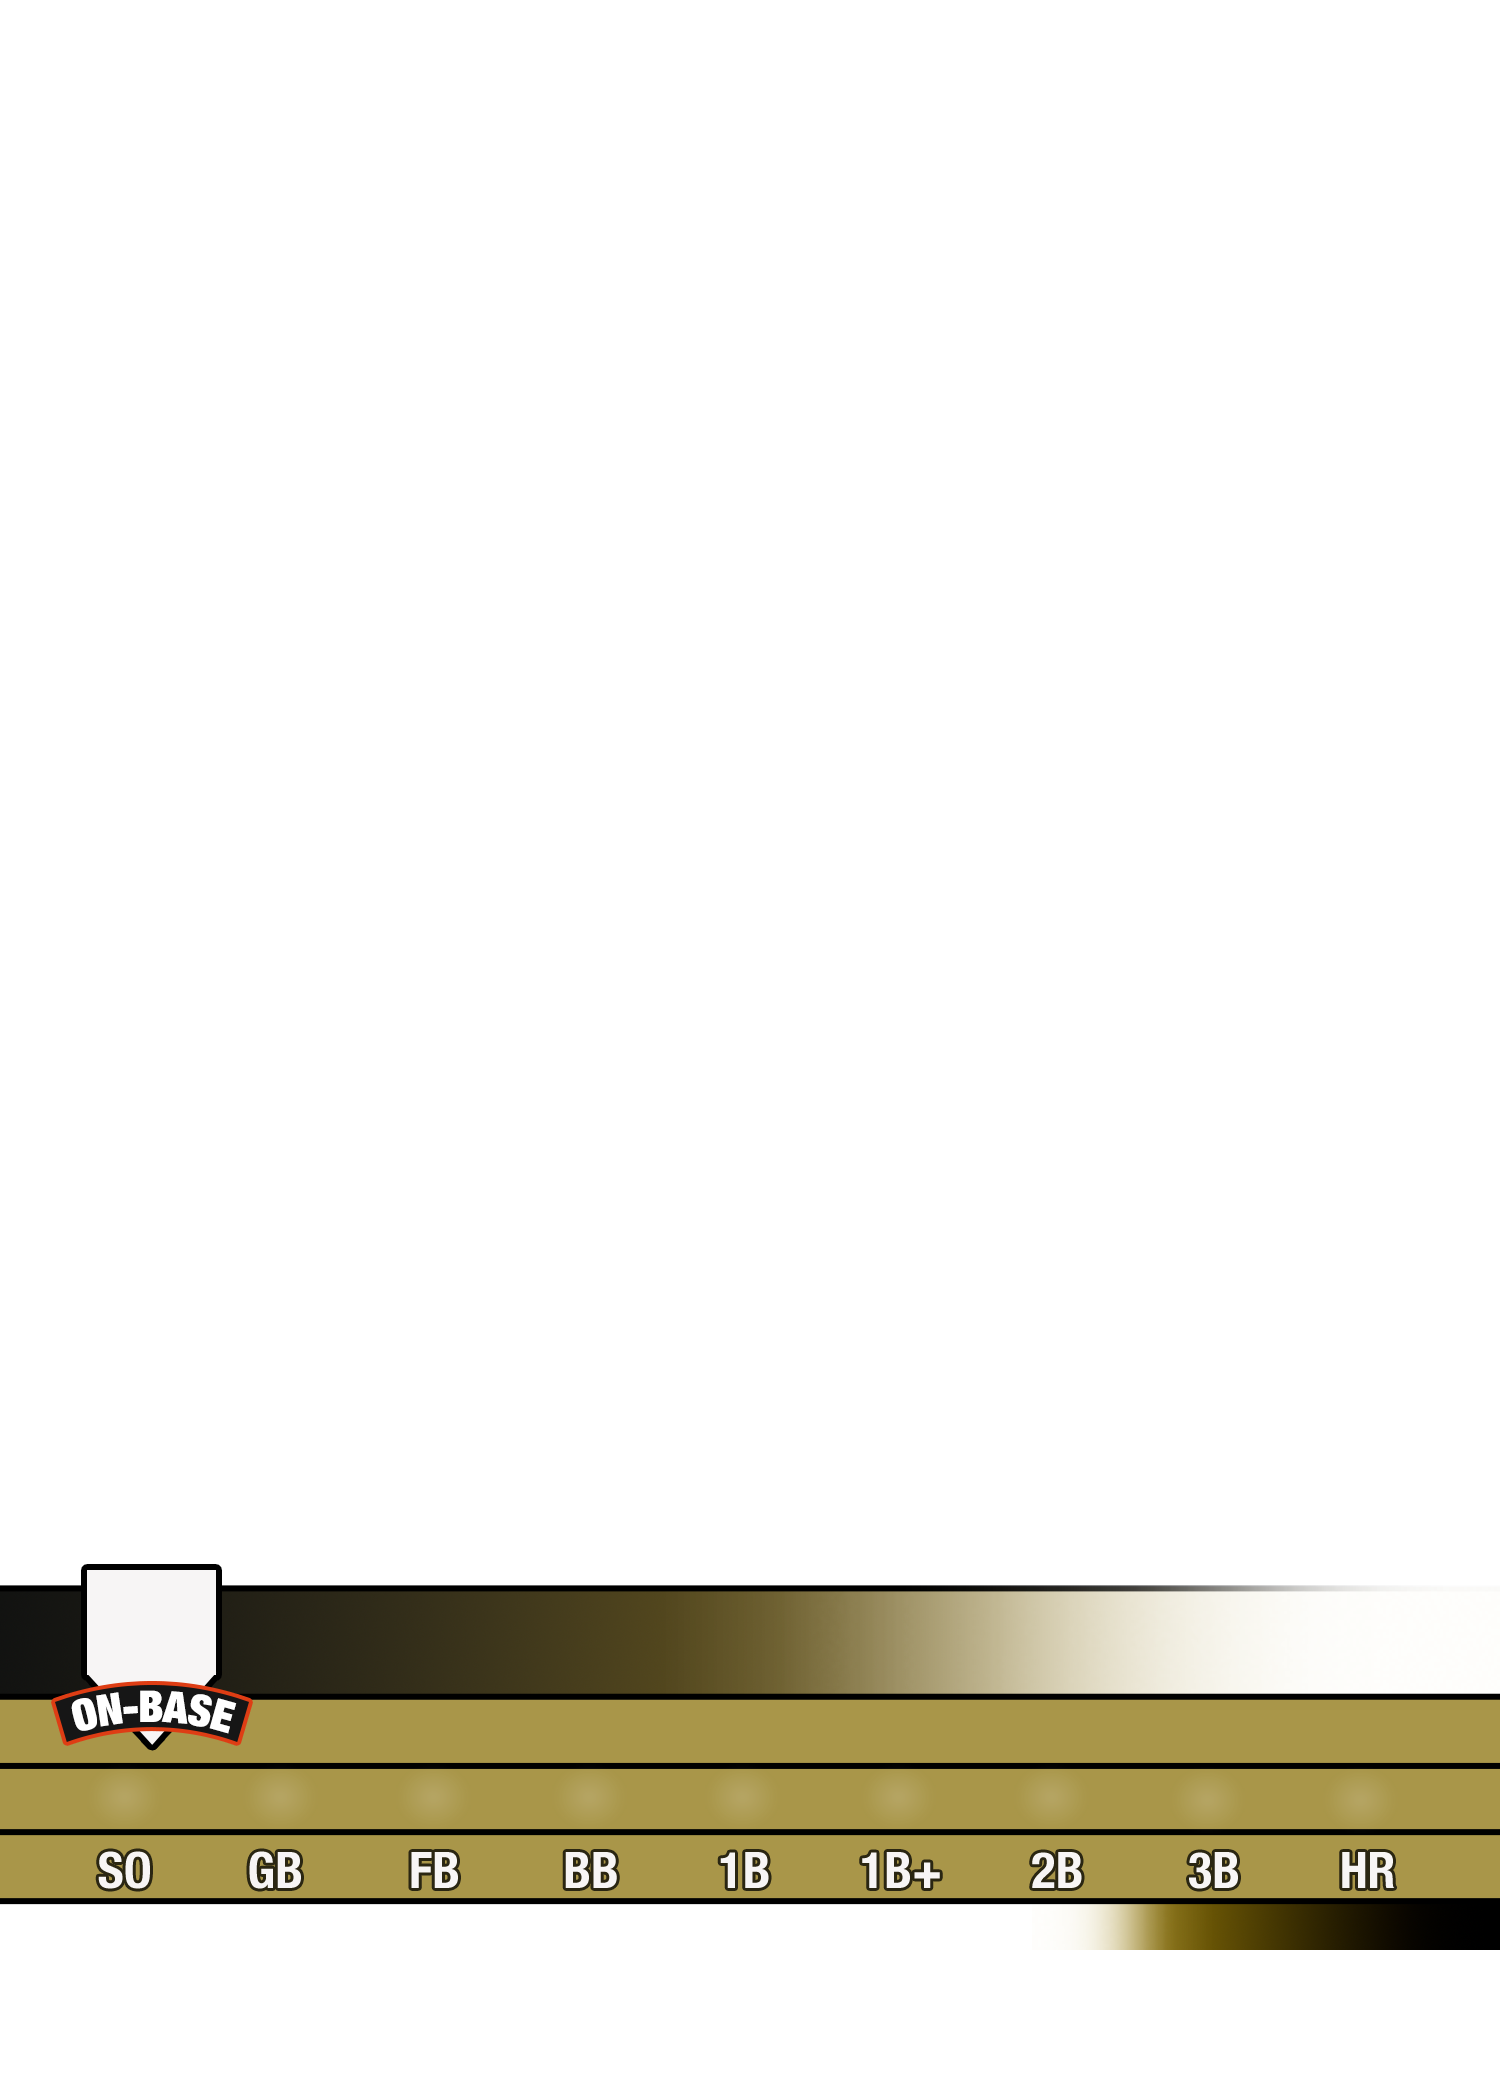
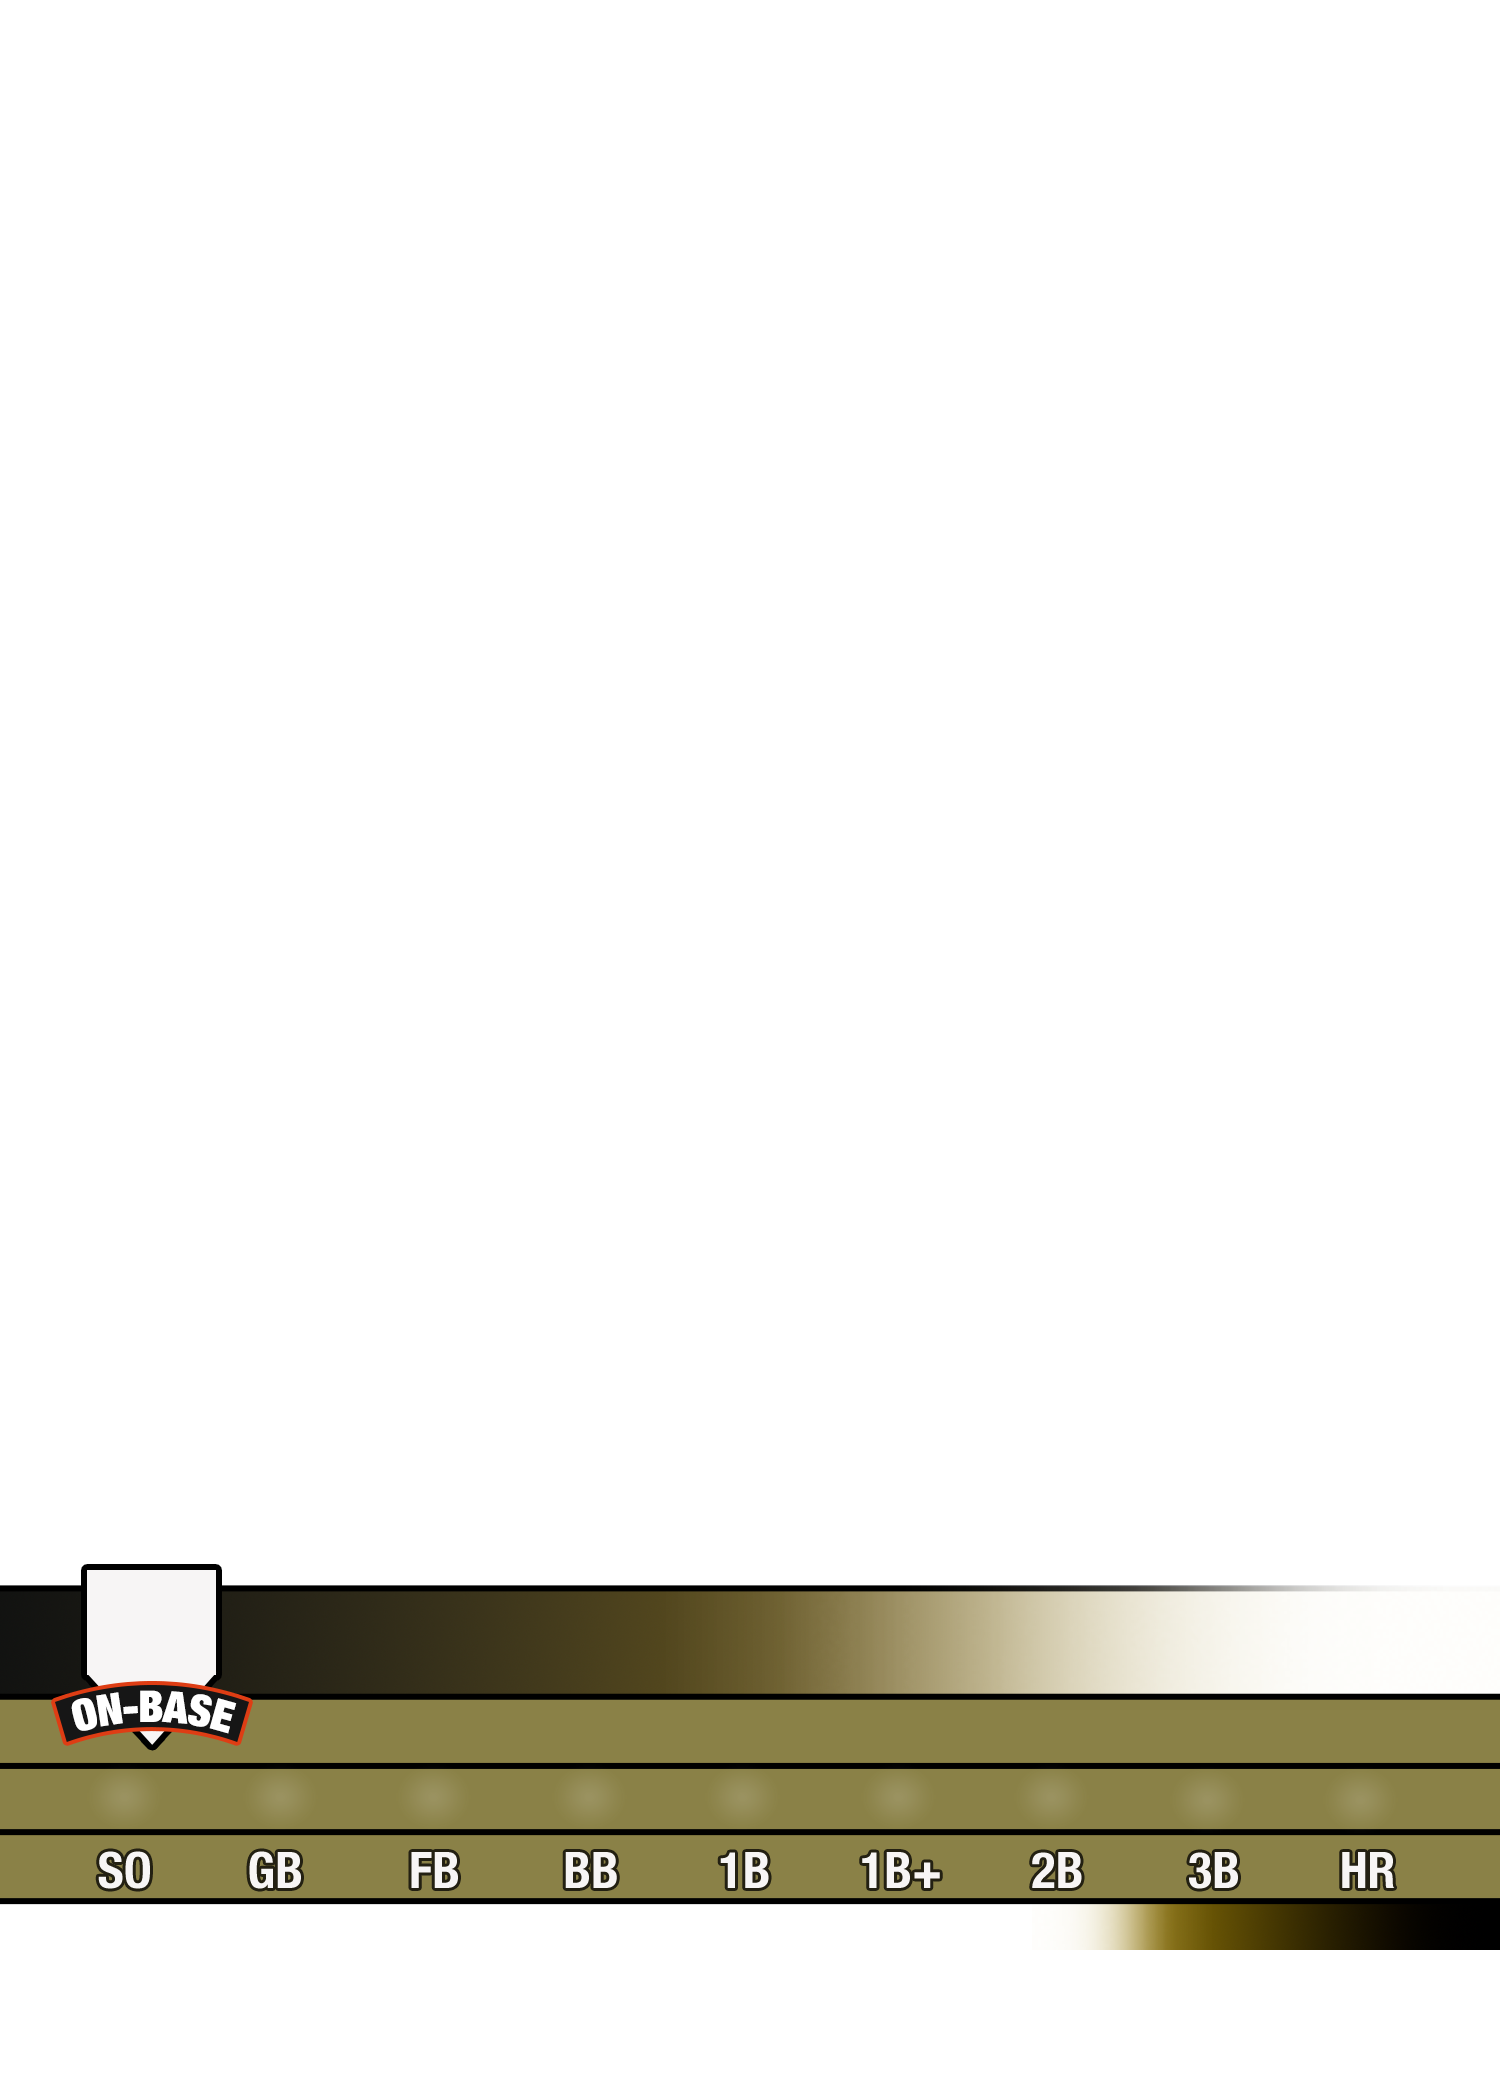
Add gold frame customizations for each set

Changed region(s): [[0.0, 0.8048, 1.0, 0.9286]]

diff --git a/mlb_showdown_bot/showdown_player_card.py b/mlb_showdown_bot/showdown_player_card.py
@@ -24,11 +24,11 @@ try:
     from .classes.team import Team
     from .classes.icon import Icon
     from .classes.accolade import Accolade
-    from .classes.sets import Set, Era, SpeedMetric, PlayerType, PlayerSubType, Stat, PointsMetric, Position, PlayerImageComponent, TemplateImageComponent, ValueRange, Chart
+    from .classes.sets import Set, Era, SpeedMetric, PlayerType, PlayerSubType, Stat, PointsMetric, Position, PlayerImageComponent, TemplateImageComponent, ValueRange, Chart, ImageParallel
     from .classes.metrics import DefenseMetric
     from .classes.nationality import Nationality
     from .classes.chart import ChartCategory
-    from .classes.images import ImageParallel, ImageSource, ImageSourceType, SpecialEdition, Edition, Expansion, ShowdownImage
+    from .classes.images import ImageSource, ImageSourceType, SpecialEdition, Edition, Expansion, ShowdownImage
     from .classes.points import Points
     from .classes.metadata import Speed, SpeedLetter, Hand
     from .classes import colors
@@ -39,12 +39,12 @@ except ImportError:
     from classes.team import Team
     from classes.icon import Icon
     from classes.accolade import Accolade
-    from classes.sets import Set, Era, SpeedMetric, PlayerType, PlayerSubType, Stat, PointsMetric, Position, PlayerImageComponent, TemplateImageComponent, ValueRange, Chart
+    from classes.sets import Set, Era, SpeedMetric, PlayerType, PlayerSubType, Stat, PointsMetric, Position, PlayerImageComponent, TemplateImageComponent, ValueRange, Chart, ImageParallel
     from classes.player_position import PlayerSubType
     from classes.metrics import DefenseMetric
     from classes.nationality import Nationality
     from classes.chart import ChartCategory
-    from classes.images import ImageParallel, ImageSource, ImageSourceType, SpecialEdition, Edition, Expansion, ShowdownImage
+    from classes.images import ImageSource, ImageSourceType, SpecialEdition, Edition, Expansion, ShowdownImage
     from classes.points import Points
     from classes.metadata import Speed, SpeedLetter, Hand
     from classes import colors
@@ -537,7 +537,7 @@ class ShowdownPlayerCard(BaseModel):
         """ Team override to use for background images and colors (ex: CC)"""
         
         # COOPERSTOWN COLLECTION LOGO
-        if self.image.edition == Edition.COOPERSTOWN_COLLECTION:
+        if self.image.edition == Edition.COOPERSTOWN_COLLECTION or self.image.parallel == ImageParallel.GOLD_FRAME:
             return Team.CCC
         
         # HIDE TEAM LOGO, USE MLB
@@ -3150,7 +3150,7 @@ class ShowdownPlayerCard(BaseModel):
             logo_paste_coordinates = self.set.template_component_paste_coordinates(TemplateImageComponent.SUPER_SEASON)
 
         # ADD YEAR TEXT IF COOPERSTOWN OR YEAR TEXT OPTION IF SELECTED
-        if is_04_05 and (is_cooperstown or self.image.show_year_text):
+        if is_04_05 and (is_cooperstown or self.image.show_year_text) and self.image.edition not in [Edition.ROOKIE_SEASON, Edition.SUPER_SEASON]:
             
             new_logo = Image.new('RGBA', (logo_size[0] + 300, logo_size[1]))
             new_logo_coords = (150, 0)
@@ -3274,8 +3274,9 @@ class ShowdownPlayerCard(BaseModel):
             type_template = f'{year}-{type}{edition_extension}'
             template_image = Image.open(self.__template_img_path(type_template))
         else:
+            custom_extension = self.set.template_custom_extension(self.image.parallel)
             dark_mode_extension = '-DARK' if self.set.is_showdown_bot and self.image.is_dark_mode else ''
-            type_template = f'{year}-{type}{edition_extension}{dark_mode_extension}'
+            type_template = f'{year}-{type}{edition_extension}{dark_mode_extension}{custom_extension}'
             template_image = Image.open(self.__template_img_path(type_template))
 
         # GET IMAGE WITH PLAYER COMMAND
@@ -3419,6 +3420,7 @@ class ShowdownPlayerCard(BaseModel):
 
         # DEFAULT NAME ATTRIBUTES
         name_font_path = helvetica_neue_lt_path
+        name_color = self.set.template_component_color(TemplateImageComponent.PLAYER_NAME, parallel=self.image.parallel)
         has_border = False
         border_color = None
         overlay_image_path = None
@@ -3435,7 +3437,6 @@ class ShowdownPlayerCard(BaseModel):
                     name_size = 110
                 elif is_name_over_15_chars:
                     name_size = 127
-                name_color = "#D2D2D2"
                 name_font_path = helvetica_neue_lt_93_path
                 padding = 0
                 overlay_image_path = self.__template_img_path('2000-Name-Text-Background')
@@ -3443,7 +3444,6 @@ class ShowdownPlayerCard(BaseModel):
                 name_rotation = 90
                 name_alignment = "left"
                 name_size = 96
-                name_color = "#D2D2D2"
                 padding = 0
                 name_font_path = futura_black_path
                 overlay_image_path = self.__template_img_path('2001-Name-Text-Background')
@@ -3451,19 +3451,16 @@ class ShowdownPlayerCard(BaseModel):
                 name_rotation = 90
                 name_alignment = "left"
                 name_size = 115 if is_name_over_char_limit else 144
-                name_color = "#b5b4b5"
                 padding = 15
             case Set._2003:
                 name_rotation = 90
                 name_alignment = "right"
                 name_size = 90 if is_name_over_char_limit else 96
-                name_color = colors.WHITE
                 padding = 60
             case Set._2004 | Set._2005:
                 name_rotation = 0
                 name_alignment = "left"
                 name_size = 80 if is_name_over_char_limit else 96
-                name_color = colors.WHITE
                 padding = 3
                 has_border = True
                 border_color = colors.RED
@@ -3471,7 +3468,6 @@ class ShowdownPlayerCard(BaseModel):
                 name_rotation = 0
                 name_alignment = "left"
                 name_size = 80 if is_name_over_char_limit else 96
-                name_color = colors.WHITE
                 name_font_path = helvetica_neue_cond_black_path
                 padding = 3
                 has_border = False
@@ -3510,6 +3506,9 @@ class ShowdownPlayerCard(BaseModel):
                 )
                 final_text.paste(last_name, (90,0), last_name)
                 name_color = final_text
+            case Set._2002:
+                if self.image.parallel == ImageParallel.GOLD_FRAME:
+                    name_color = "#616161"
             case Set._2004 | Set._2005:
                 # DONT ASSIGN A COLOR TO TEXT AS 04/05 HAS MULTIPLE COLORS.
                 # ASSIGN THE TEXT ITSELF AS THE COLOR OBJECT
@@ -4351,6 +4350,12 @@ class ShowdownPlayerCard(BaseModel):
             if img_component.opacity < 1.0:
                 opacity_255_scale = int(255 * img_component.opacity)
                 image.putalpha(opacity_255_scale)
+
+            # ADJUST SIZE
+            size_adjustment_for_set = self.set.player_image_component_size_adjustment(img_component)
+            if size_adjustment_for_set:
+                new_size = (int(image.size[0] * size_adjustment_for_set), int(image.size[1] * size_adjustment_for_set))
+                image = image.resize(size=new_size, resample=Image.ANTIALIAS)
             
             # CROP IMAGE
             crop_size = default_crop_size if img_component.ignores_custom_crop else player_crop_size
@@ -4394,6 +4399,10 @@ class ShowdownPlayerCard(BaseModel):
                             player_img_components.append((ellipse_circle_image, coordinates_adjusted))
                             break
             
+            set_paste_adjustment = self.set.player_image_component_paste_adjustment(img_component)
+            if set_paste_adjustment:                
+                paste_coordinates = tuple(sum(x) for x in zip(paste_coordinates, set_paste_adjustment))
+
             # PASTE IMAGE
             player_img_components.append((image, paste_coordinates))
 

diff --git a/mlb_showdown_bot/classes/sets.py b/mlb_showdown_bot/classes/sets.py
@@ -5,14 +5,14 @@ try:
     from .player_position import PlayerType, PlayerSubType, Position
     from .metrics import Stat, PointsMetric
     from .value_range import ValueRange
-    from .images import PlayerImageComponent, TemplateImageComponent
+    from .images import PlayerImageComponent, TemplateImageComponent, ImageParallel
     from .chart import Chart
 except ImportError:
     from metadata import SpeedMetric
     from player_position import PlayerType, PlayerSubType, Position
     from metrics import Stat, PointsMetric
     from value_range import ValueRange
-    from images import PlayerImageComponent, TemplateImageComponent
+    from images import PlayerImageComponent, TemplateImageComponent, ImageParallel
     from chart import Chart
 
 
@@ -1408,6 +1408,16 @@ class Set(str, Enum):
             case '2005': return '2004'
             case _: return self.year
 
+    def template_custom_extension(self, parallel: ImageParallel) -> str:
+        """Add extension to the template image path for a custom parallel. """
+
+        match parallel:
+            case ImageParallel.GOLD_FRAME:
+                match self.value:
+                    case '2002': return '-NO-NAME'
+    
+        return ''
+
     @property
     def use_alternate_team_logo(self) -> bool:
         return self.is_after_03
@@ -1508,6 +1518,25 @@ class Set(str, Enum):
                 case '2001': return [PlayerImageComponent.GLOW]
                 case '2002' | '2003' | '2004' | '2005': return [PlayerImageComponent.BACKGROUND]
                 case 'CLASSIC' | 'EXPANDED': return [PlayerImageComponent.BACKGROUND, PlayerImageComponent.SHADOW]
+
+    def player_image_component_paste_adjustment(self, component: PlayerImageComponent) -> tuple[int,int]:
+        match component:
+            case PlayerImageComponent.GOLD_FRAME:
+                match self.value:
+                    case '2000': return (20, 0)
+        
+        return None
+    
+    def player_image_component_size_adjustment(self, component: PlayerImageComponent) -> float:
+        match component:
+            case PlayerImageComponent.GOLD_FRAME:
+                match self.value:
+                    case '2001': return 1.025
+                    case '2002': return 1.01
+                    case 'EXPANDED' | 'CLASSIC': return 1.025
+        
+        return None
+        
 
     # ---------------------------------------
     # TEMPLATE IMAGE
@@ -1671,6 +1700,18 @@ class Set(str, Enum):
                     case '2002': return 25
                     case '2003': return 26
                     case '2004' | '2005' | 'CLASSIC' | 'EXPANDED': return 75
+
+    def template_component_color(self, component: TemplateImageComponent, parallel: ImageParallel) -> str:
+        """Return color string for a template image component """
+
+        match component:
+            case TemplateImageComponent.PLAYER_NAME:
+                match self.value:
+                    case '2000' | '2001': return "#D2D2D2"
+                    case '2002': return "#b5b4b5"
+                    case _: return "#FFFFFF"
+
+        return None
 
     # ---------------------------------------
     # BASELINE PLAYERS
